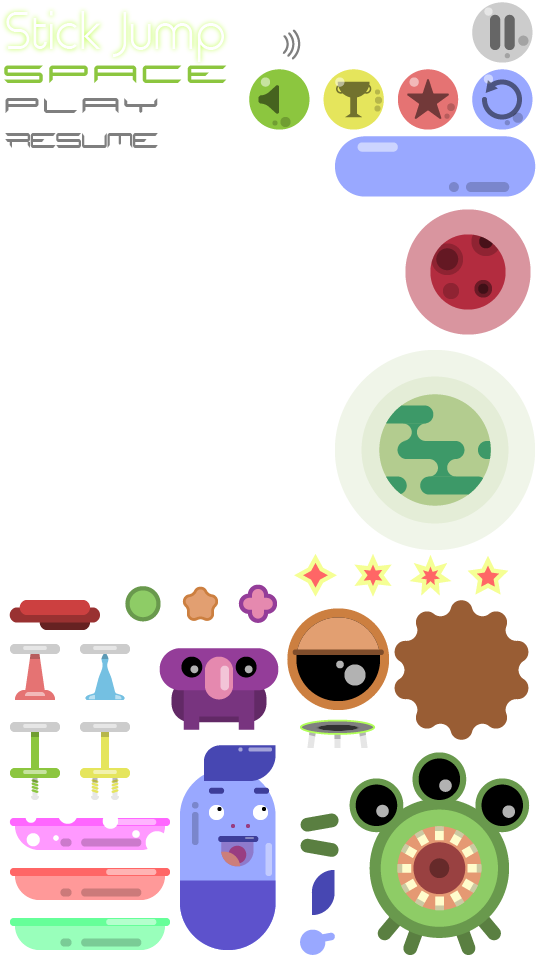
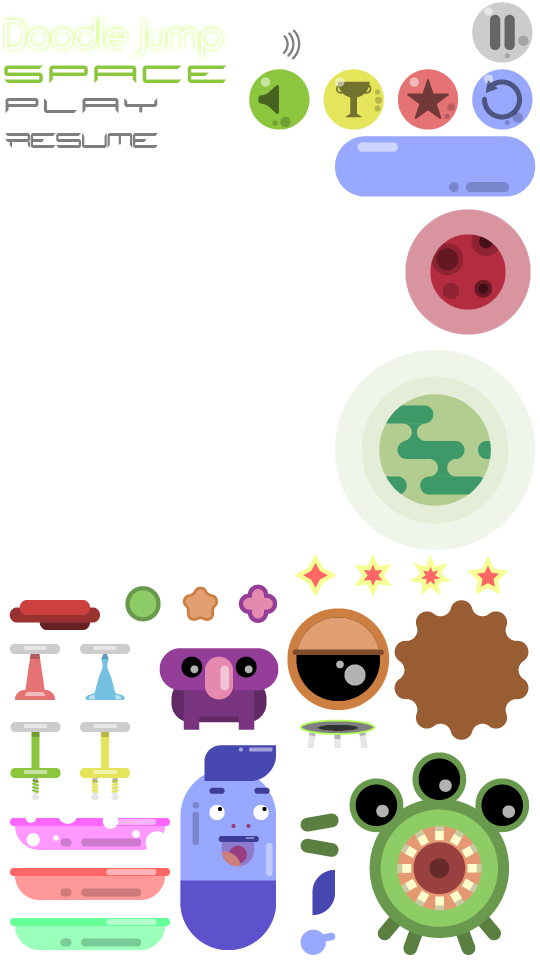
Changing title, updating ads frequency and polishing

Changed region(s): [[0.0, 0.0, 0.4148, 0.0625], [0.3556, 0.8438, 0.3852, 0.875]]

diff --git a/Assets/GPGSIds.cs b/Assets/GPGSIds.cs
@@ -24,7 +24,7 @@
 
 public static class GPGSIds
 {
-        public const string leaderboard_best_score = "CgkI37a82pQaEAIQAQ"; // <GPGSID>
+        public const string leaderboard_best_score = "CgkI37a82pQaEAIQBA"; // <GPGSID>
 
 }
 

diff --git a/Assets/Script/Managers/AdsManager.cs b/Assets/Script/Managers/AdsManager.cs
@@ -11,7 +11,7 @@ public class AdsManager : MonoBehaviour
 
     private int period = 0;
     //Google Play gameID
-    private string gameId = "2582701";
+    private string gameId = "3434426";
 
     void Awake()
     {
